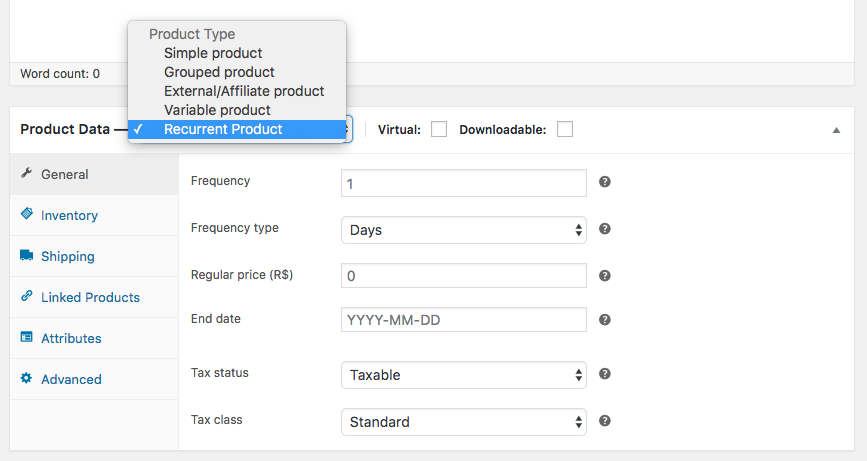
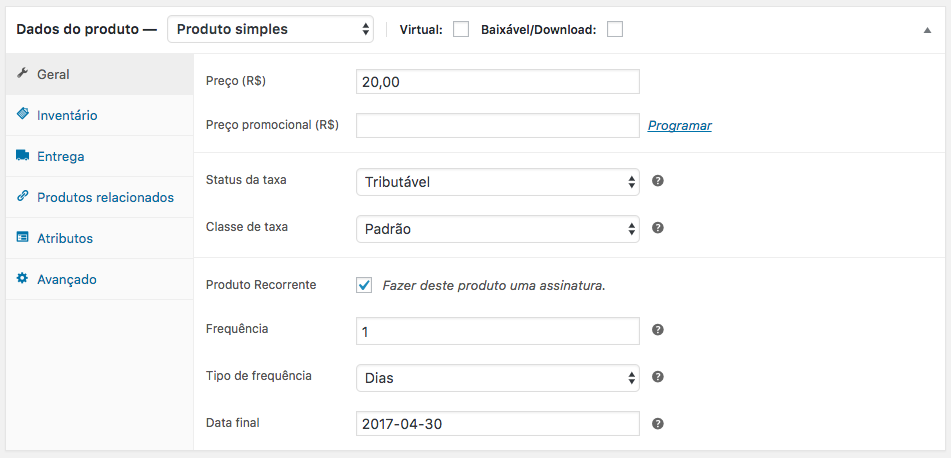
update to readme

diff --git a/README.md b/README.md
@@ -270,18 +270,15 @@ This feature enables you to sell signatures by using Mercado Pago recurrent paym
 
 4. **Subscription Options**: This part allows you to customize your general subscription fields;
 
-5. **Create a Recurrent Product**: Now, you need to create an Assignable Product. To do this, go to **Products > Products > Add Product Button**, as shown:
+5. **Create a Recurrent Product**: Now, you need to create an Assignable Product. To do this, go to **Products > Products > Add Product Button**. The openned page shoud contain the following fields, in **Product Data** window:
 
 ![Installation Instructions](https://raw.github.com/mercadopago/cart-woocommerce/master/README.img/subscriptions_1.png)
 
-6. On the openned page, complete your product informations (name, price, images, etc), and set the **Product Data** type to **Recurrent Product**, 
+6. Complete your product informations (name, price, images, etc), and check **Recurrent Product** checkbox. Also, you will need to fill the following fields: 
 
 	*Frequency*: This is the frequency of which the charges will be made to your customer;<br />
 	*Frequency Type*: The frequency type can be in [Days] or [Months];<br />
-	*Regular Price*: The amount that will be charged periodically;<br />
-	*End Date*: The date that the signature should end;<br />
-	*Tax status*: Setup if the product is taxable or not;<br />
-	*Tax class*: The class of the tax.
+	*End Date*: The date that the signature should end.
 
 7. **Considerations**: There are a few important points about Subscription:
 
